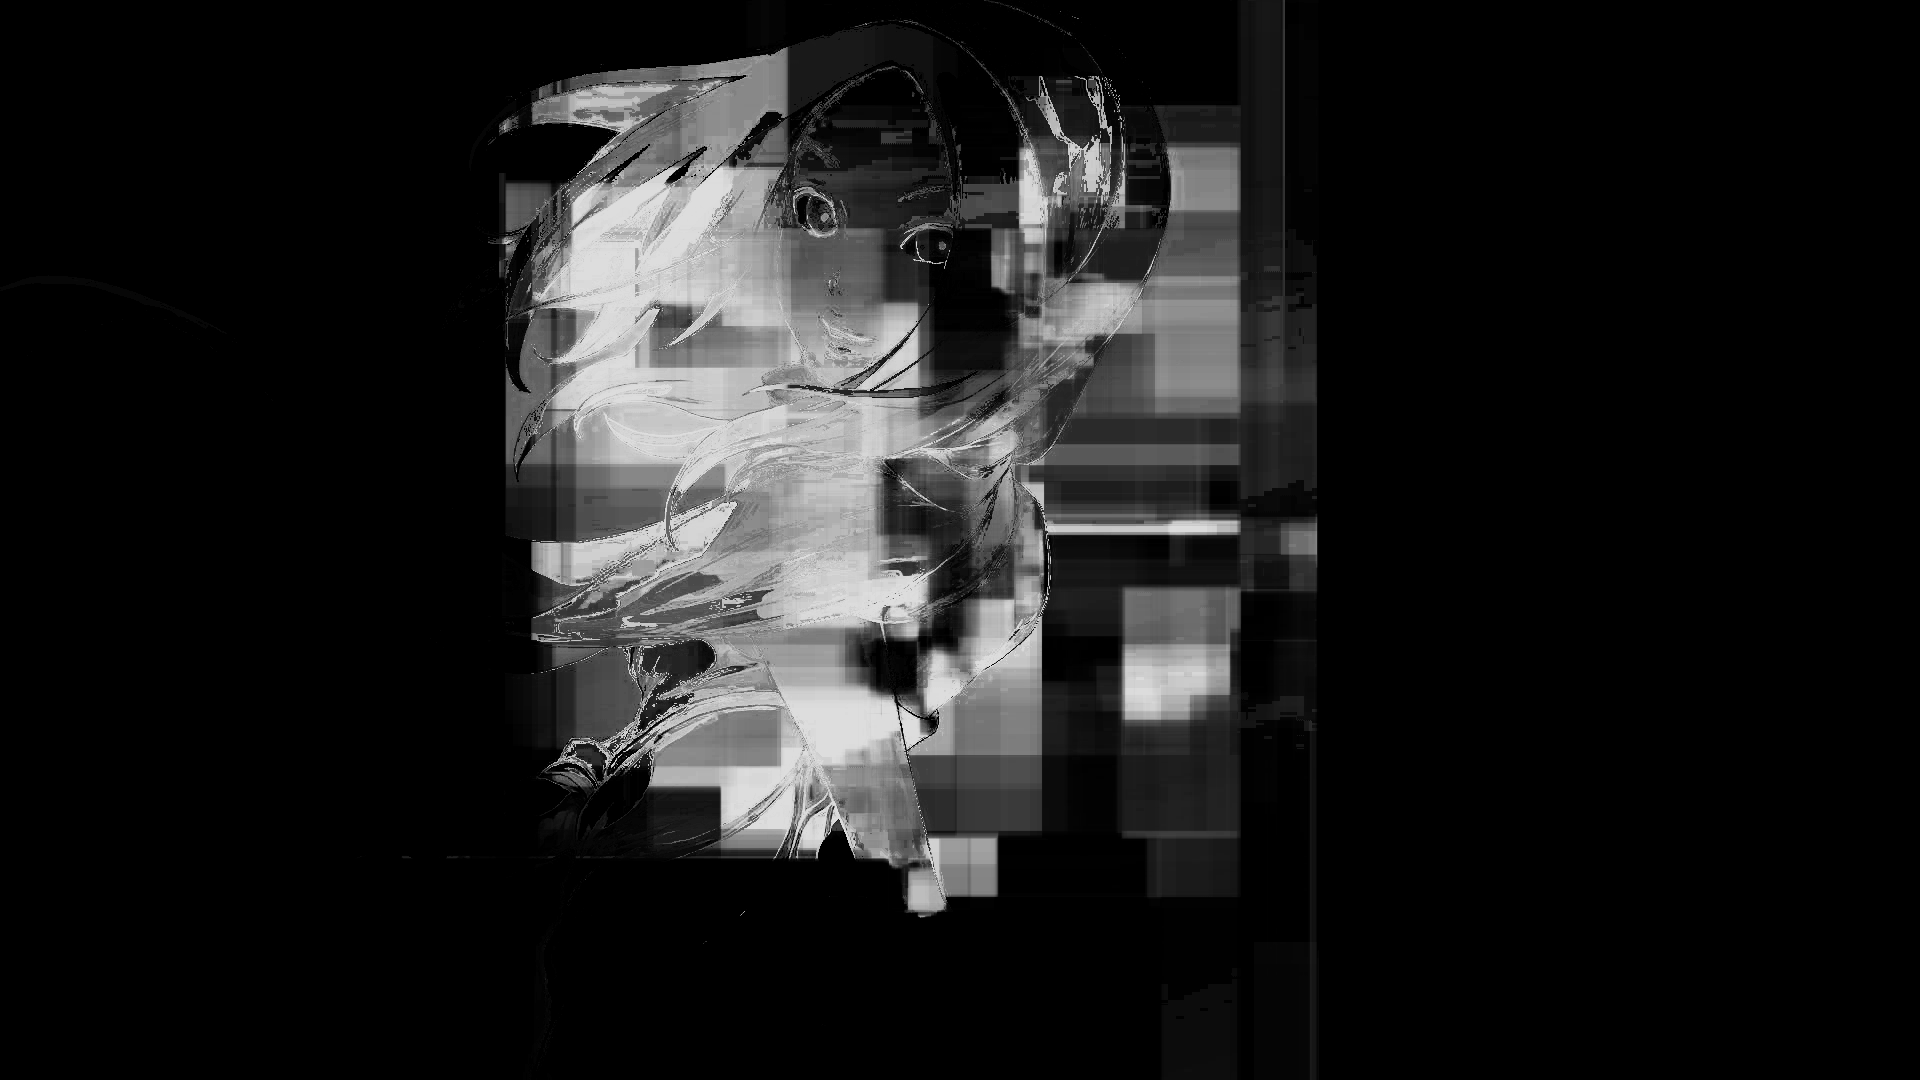
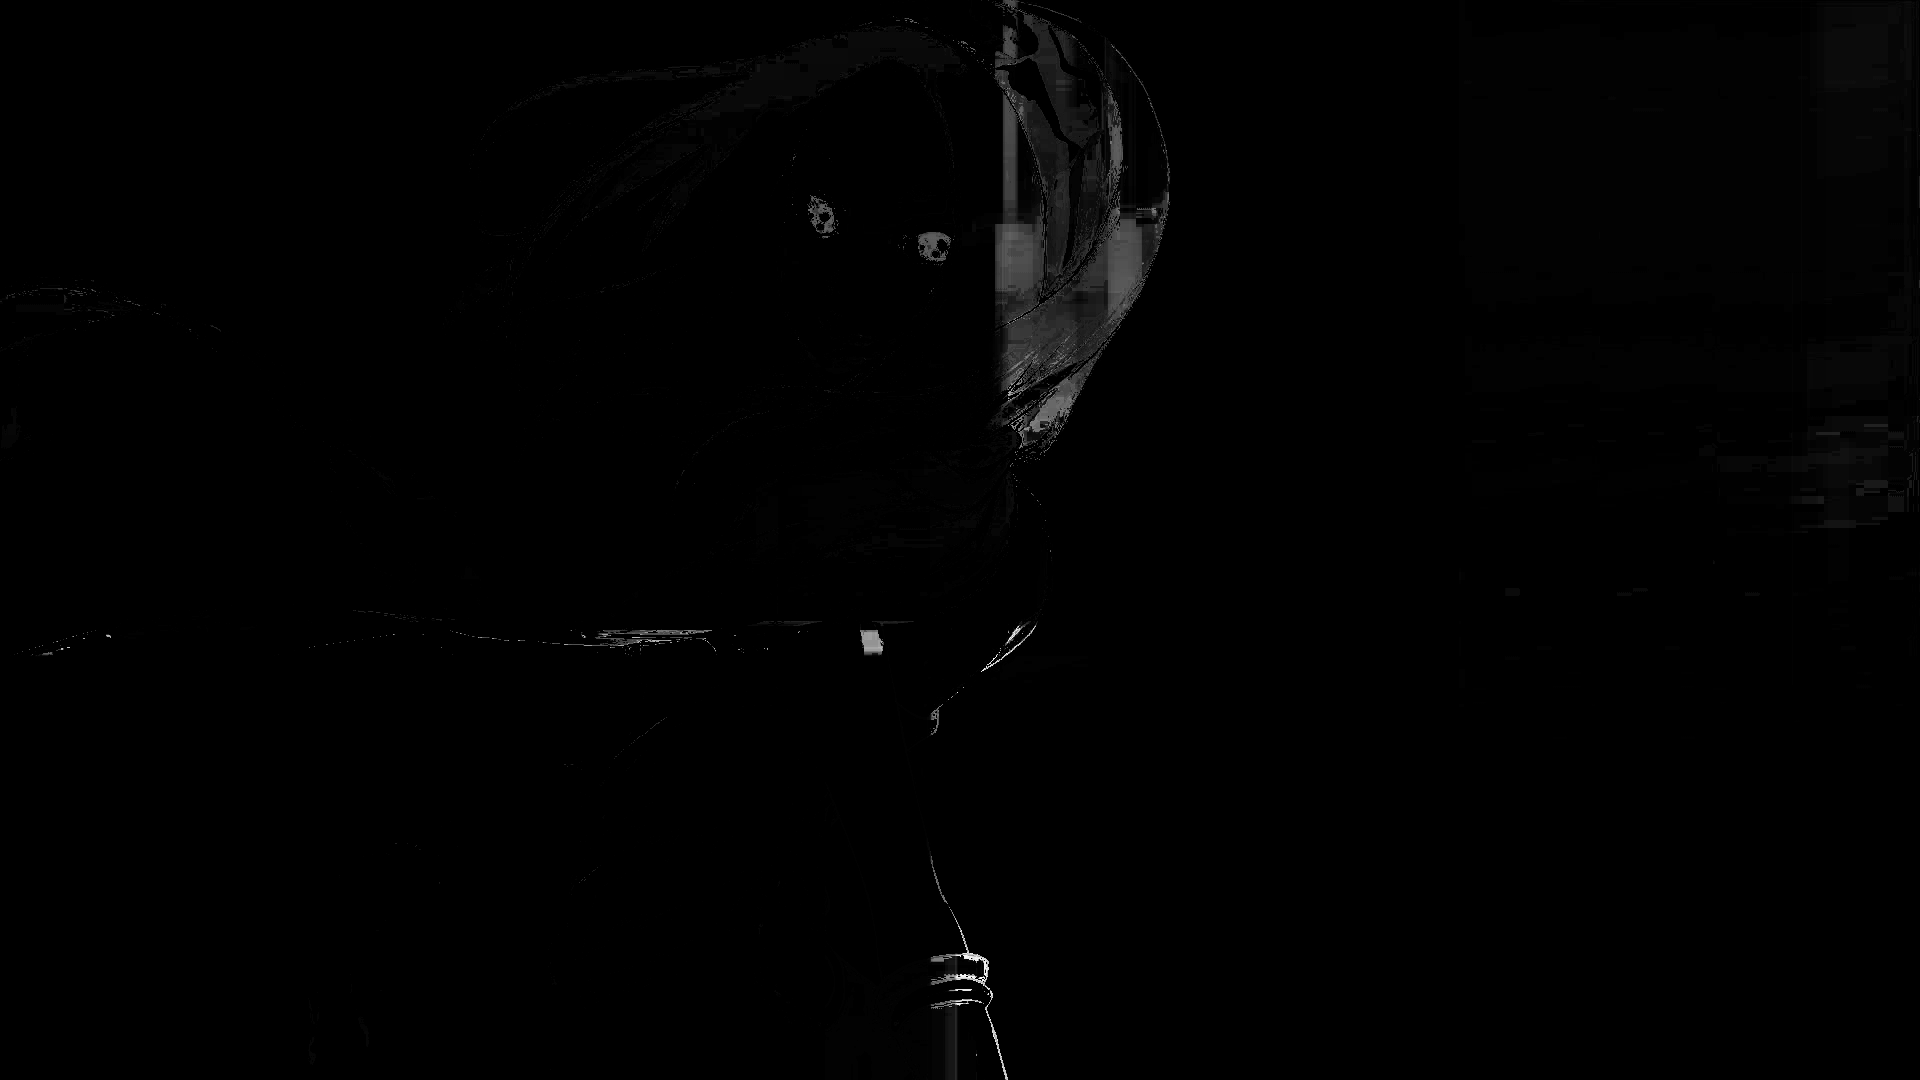
Updated Model and training data - Tested w/new output

Changed region(s): [[0.25, 0.0, 0.6875, 0.8556], [0.4688, 0.8861, 0.5312, 0.9167], [0.9688, 0.4278, 1.0, 0.4583]]

diff --git a/transform.py b/transform.py
@@ -1,5 +1,5 @@
 import os
-# import sys
+import sys
 
 import numpy as np
 import matplotlib.pyplot as plt
@@ -18,11 +18,12 @@ def preprocess(input_dir, expected_dir):
     input_images = []
     expected_images = []
     files = os.listdir(input_dir)
-    limit = 2#len(files)
+    limit = len(files)
     for file in files[:limit]:
-        temp = color.rgba2rgb(imread(input_dir+file))
+        temp = imread(input_dir+file)
+        temp = color.rgba2rgb(imread(input_dir+file)) if temp.shape[-1] == 4 else temp
         input_images.append(temp)
-        temp = color.rgba2rgb(imread(expected_dir+file))
+        temp = imread(expected_dir+file)
         temp = color.rgb2gray(temp)
         expected_images.append(temp)
     
@@ -58,17 +59,22 @@ def train(x, y):
         pkl.dump(clf, out)
     return clf, X_test, Y_test
 
-def create_model_using_image(model, im, output):
-    new_im = np.zeros_like(im)
+def create_image_using_model(model, im, output):
+    temp = color.rgba2rgb(im) if im.shape[-1] == 4 else im
+    new_im = np.zeros_like(temp)
     # im_temp = im.reshape((im.shape[0]*im.shape[1], 3))
-    inds = np.array(list(np.ndindex(*im.shape[:-1])))
-    flat = im.flatten().reshape((-1, 3))
+    inds = np.array(list(np.ndindex(*temp.shape[:-1])))
+    flat = temp.flatten().reshape((-1, 3))
     samples = np.zeros((flat.shape[0], 5))
     samples[:, :2], samples[:, 2:] = inds, flat
     predictions = model.predict(samples)
     new_im = predictions.reshape(im.shape[:-1])
     scaled = (new_im*255).astype('uint8')
-    imwrite(output, scaled)
+    try:
+        imwrite(output, scaled, format=".png")
+    except OSError:
+        print("This doesn't have a good name. Writing to home dir")
+        imwrite("bad_name.png", scaled)
     return scaled
     
 
@@ -82,27 +88,45 @@ def plotimages(*ims, title=None):
         ax.imshow(im, cmap=cm.gray)
     plt.show()
 
-oled_folder = "input/oled/"
-rgb_folder = "input/rgb/"
-output_dir = "output/"
-model_path = "./oledify_model.pkl"
+if __name__ == "__main__":
+    oled_folder = "input/oled/" 
+    rgb_folder = "input/rgb/"
+    output_dir = "output/"
+    model_path = "./oledify_model.pkl"
 
-model = 0
-retrain = False
-if (not os.path.exists(model_path)) or retrain:
-    start = monotonic()
-    X, Y = preprocess(rgb_folder, oled_folder)
-    print("Preprocessing Time: ", monotonic() - start)
-    
-    start = monotonic()
-    model, x_test, Y_test = train(X, Y)
-    print("Training Time: ", monotonic() - start)
-else:
-    with open(model_path, 'rb') as f:
-        model = pkl.load(f)
+    model = 0
+    retrain = False
+    if (not os.path.exists(model_path)) or retrain:
+        print("Retraining Model")
+        start = monotonic()
+        X, Y = preprocess(rgb_folder, oled_folder)
+        print("Preprocessing Time: ", monotonic() - start)
         
-choice = "No Expectations.png"
-example = color.rgba2rgb(imread(rgb_folder+choice))
-start = monotonic()
-create_model_using_image(model, example, output_dir+choice)
-print("Writing Image Time: ", monotonic() - start)
+        start = monotonic()
+        model, x_test, Y_test = train(X, Y)
+        print("Training Time: ", monotonic() - start)
+    else:
+        with open(model_path, 'rb') as f:
+            model = pkl.load(f)
+            
+    
+    args = sys.argv[1:]
+    ims = []
+    for arg in args:
+        if (os.path.exists(arg) and os.path.isfile(arg)):
+            im = imread(arg)
+            plotimages(im, title=f"Original: {arg}")
+            ims.append((arg, im))
+        else:
+            print("Warning! Image at {} does not exist. Will process remaining that do exist.".format(arg))
+    if len(ims) == 0:
+        choice = "No Expectations.png"
+        example = color.rgba2rgb(imread(rgb_folder+choice))
+        ims.append((choice, example))
+    
+    for im in ims:
+        start = monotonic()
+        output_name = im[0].split('/')[-1]
+        output_im = create_image_using_model(model, im[1], output_dir+output_name)
+        plotimages(output_im, title="Processed Images")
+        print("Writing {} Time: ".format(output_name), monotonic() - start)
